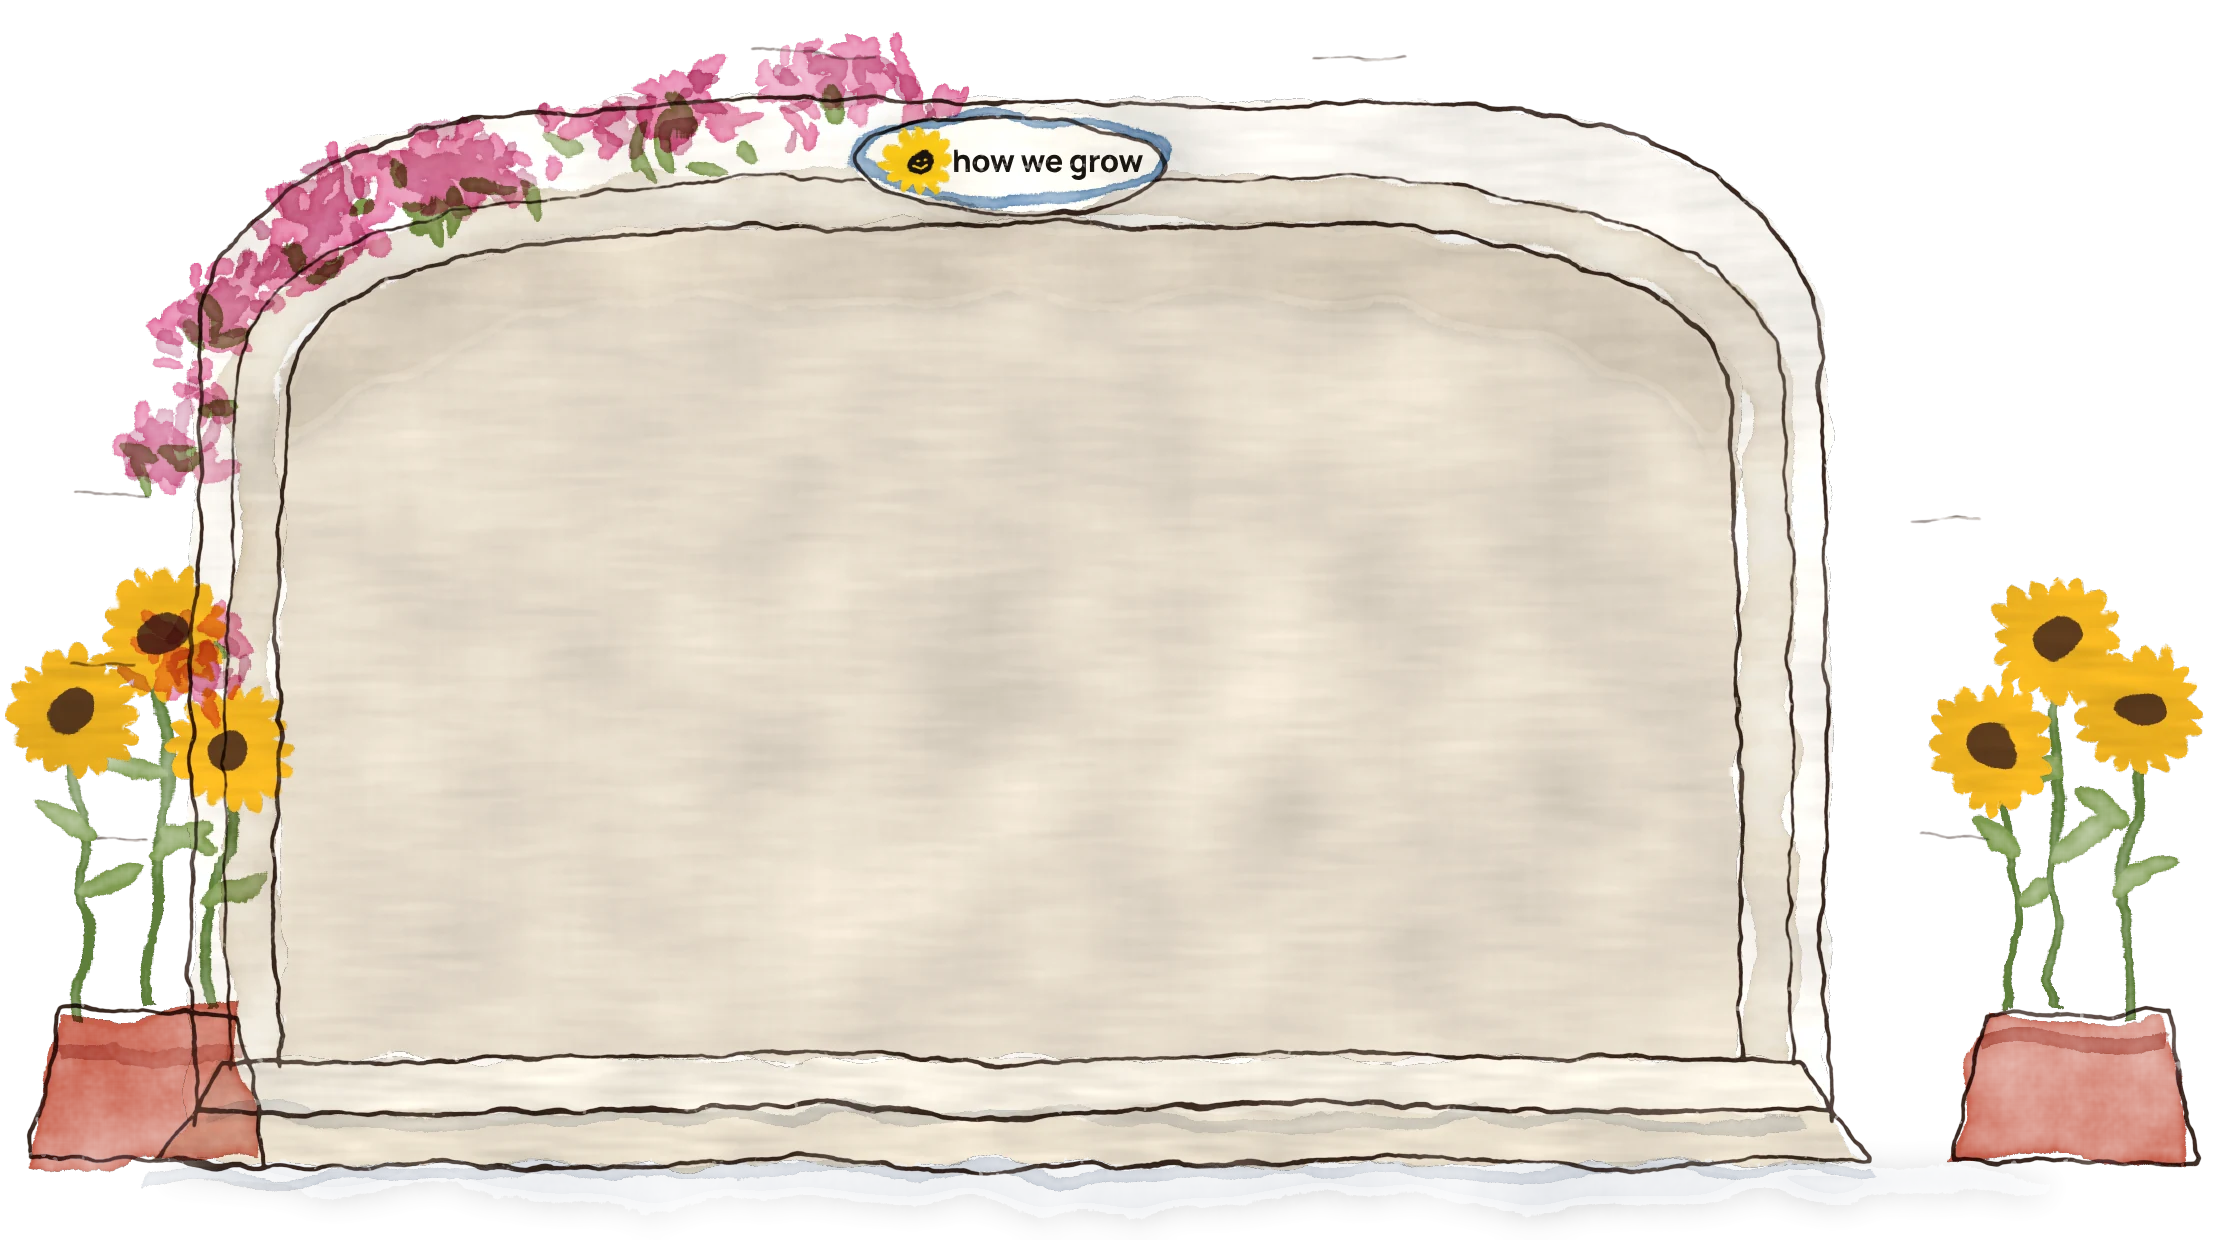
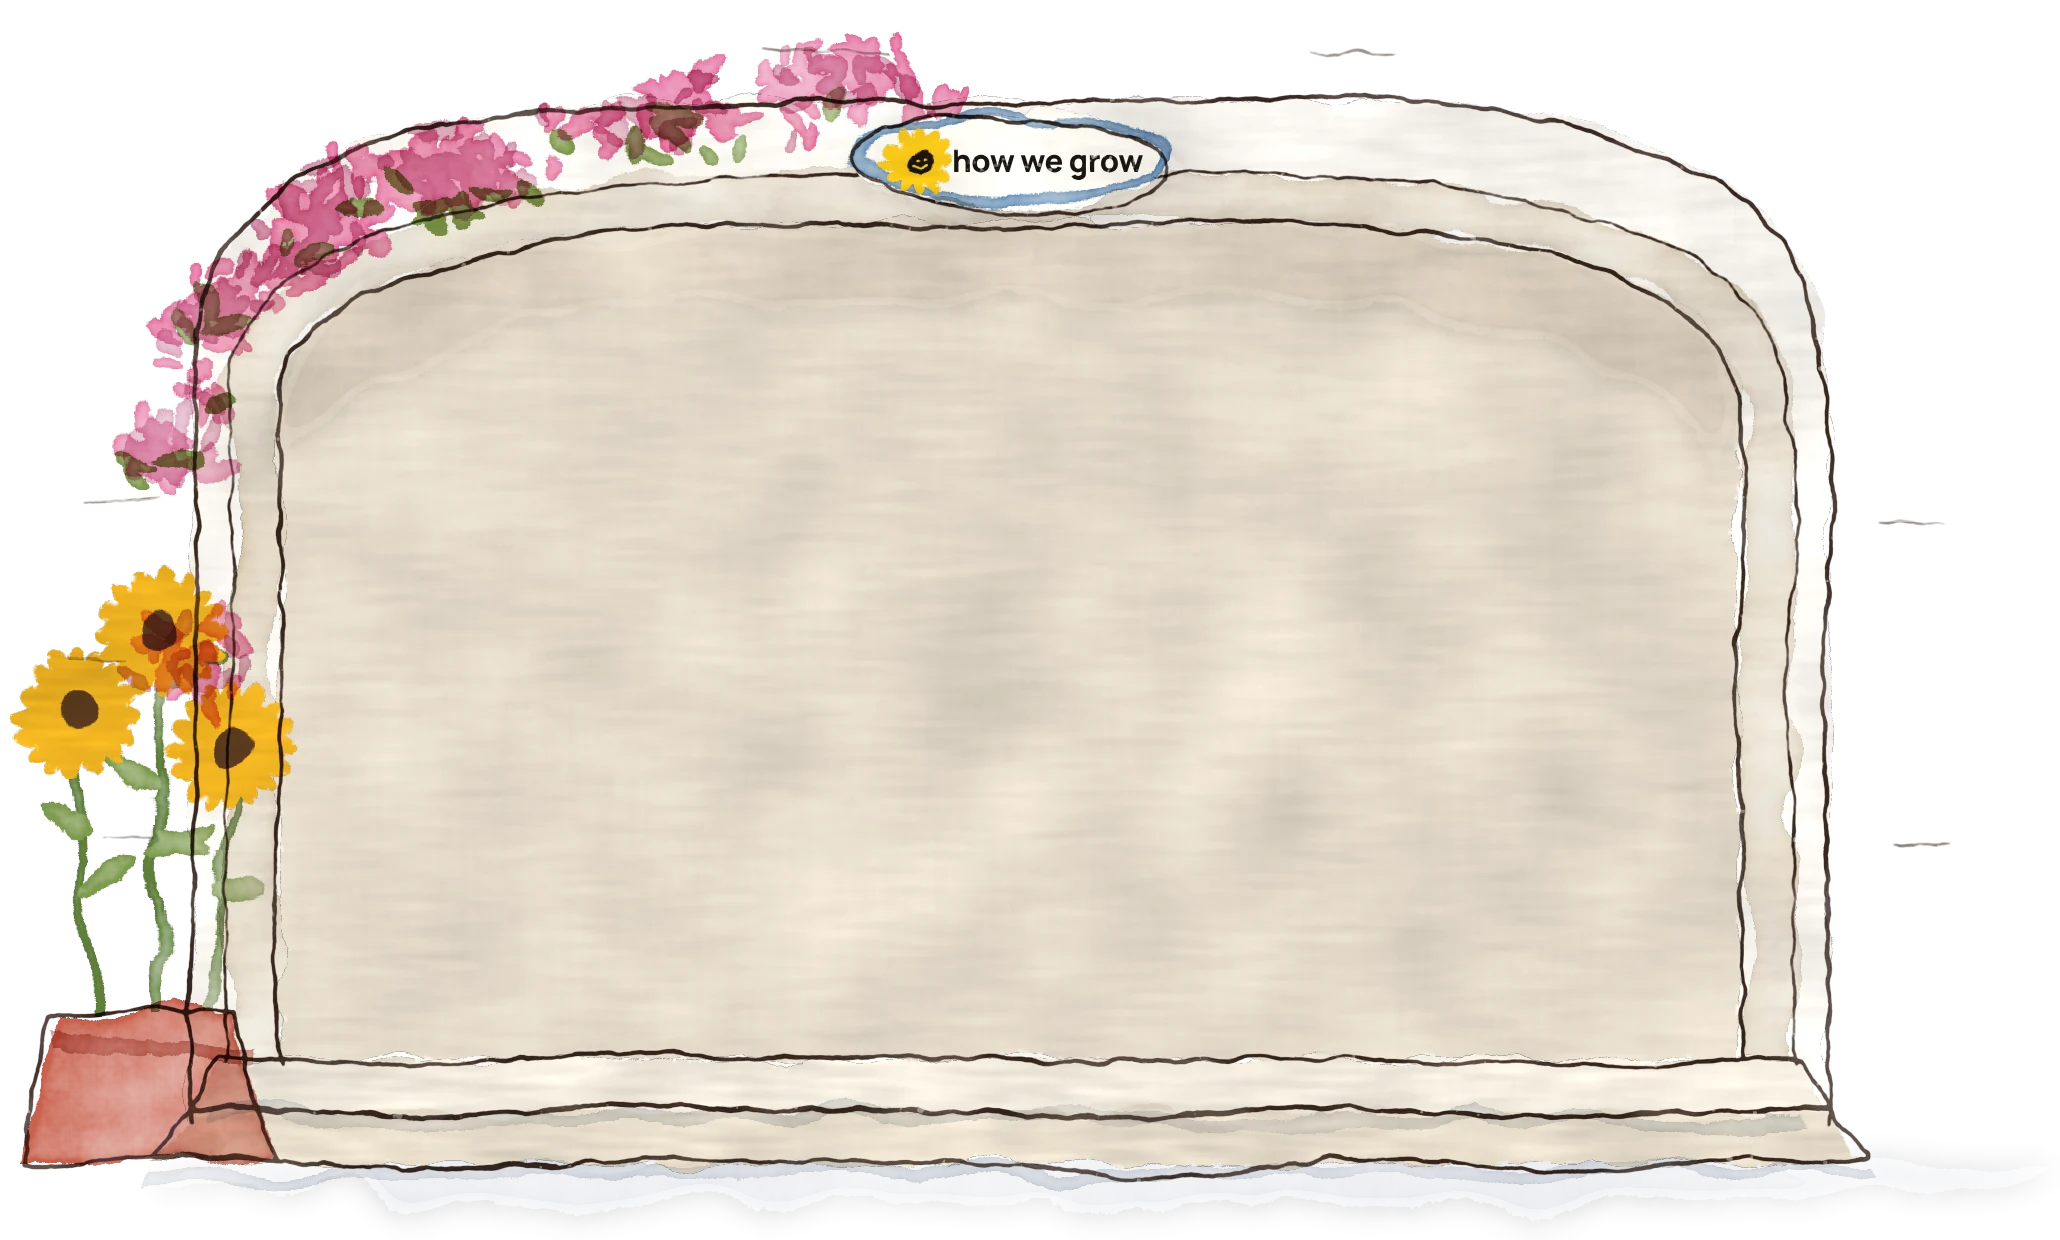
VIP door: the right sunflower pot moves in against the door, in front of the open leaf; canvas trimmed so the whole door and its video scale up
Claude-Session: https://claude.ai/code/session_01MxqKXt8jC4twN2icxWpMeU

Changed region(s): [[0.0, 0.0306, 0.9942, 0.9806], [0.7146, 0.2758, 0.7456, 0.3065], [0.5592, 0.6435, 0.5903, 0.6742]]

diff --git a/tools/paint/studio.html b/tools/paint/studio.html
@@ -439,7 +439,7 @@ svg[data-art]{background:transparent;display:block}
 </svg>
 
 <!-- hero · her door in Greece: the video sits in the arched opening (x170 y110 w670 h420); the blue door leaf swings open toward us -->
-<svg data-art="door" width="1110" height="620" viewBox="0 0 1110 620">
+<svg data-art="door" width="1030" height="620" viewBox="0 0 1030 620">
   <g data-mat="shadow" fill="#8E98AA" data-density=".5"><ellipse cx="555" cy="588" rx="470" ry="14"/></g>
   <g data-mat="gouache" data-angle="0" data-streak=".012"><path d="M96 560 V180 C96 100 190 50 320 50 H690 C820 50 914 100 914 180 V560 Z" fill="#FBF8F2"/></g>
   <g data-mat="wash" fill="#D8CBB6" data-density=".7"><path d="M114 530 V196 C114 126 230 88 378 88 H632 C780 88 896 126 896 196 V530 H870 V200 C870 146 770 112 630 112 H380 C240 112 140 146 140 200 V530 Z"/></g>
@@ -448,8 +448,8 @@ svg[data-art]{background:transparent;display:block}
   <g data-mat="shadow" fill="#8E7E6A" data-density=".5"><path d="M140 200 C140 146 240 112 380 112 H630 C770 112 870 146 870 200 V230 C840 190 760 150 630 150 H380 C250 150 170 190 140 230 Z"/></g>
   <g data-mat="gouache" data-angle="0"><path d="M110 530 H900 L914 556 H96 Z" fill="#F1EADD"/><path d="M96 556 H914 L934 582 H76 Z" fill="#E7DDCB"/></g>
   <g data-mat="wash" fill="#B7C0CC" data-density=".45"><path d="M108 556 H902 L906 562 H104 Z M76 582 H934 L936 588 H74 Z"/></g>
-  <g data-mat="wash" fill="#C9614E" data-rim="2.6"><path d="M12 582 L28 506 H118 L134 582 Z"/><path d="M976 582 L992 506 H1082 L1098 582 Z"/></g>
-  <g data-mat="wash" fill="#A9483A" data-density=".5"><path d="M24 520 H122 L120 528 H26 Z M988 520 H1086 L1084 528 H990 Z"/></g>
+  <g data-mat="wash" fill="#C9614E" data-rim="2.6"><path d="M12 582 L28 506 H118 L134 582 Z"/></g>
+  <g data-mat="wash" fill="#A9483A" data-density=".5"><path d="M24 520 H122 L120 528 H26 Z"/></g>
   <g data-mat="wash" fill="#7E9A4E" data-rim="2.2" id="heroLeaves"></g>
   <g data-mat="gouache" data-angle="0" id="heroFlowers"></g>
   <g data-mat="wash" fill="#E05A92" data-rim="2" data-density=".8" id="heroBoug"></g>
@@ -459,7 +459,7 @@ svg[data-art]{background:transparent;display:block}
     <path d="M140 530 V200 C140 146 240 112 380 112 H630 C770 112 870 146 870 200 V530"/>
     <path d="M114 530 V196 C114 126 230 88 378 88 H632 C780 88 896 126 896 196 V530" stroke-width=".8"/>
     <path d="M110 530 H900 L914 556 H96 Z M96 556 H914 L934 582 H76 Z"/>
-    <path d="M12 582 L28 506 H118 L134 582 Z M976 582 L992 506 H1082 L1098 582 Z"/>
+    <path d="M12 582 L28 506 H118 L134 582 Z"/>
   </g>
   <g data-mat="shadow" fill="#8E98AA" data-density=".6"><ellipse cx="508" cy="84" rx="78" ry="23"/></g>
   <g data-mat="gouache" data-angle="0" data-streak=".01"><ellipse cx="505" cy="80" rx="78" ry="24" fill="#FFFCF3"/></g>
@@ -467,9 +467,9 @@ svg[data-art]{background:transparent;display:block}
   <g data-mat="gouache" data-angle="0" id="plaqueFlower"></g>
   <g data-mat="flat" fill="#1A1412"><text x="476" y="86" class="sans" font-weight="800" font-size="15.5" letter-spacing="-.2">how we grow</text></g>
   <g data-mat="ink" stroke="#1A1412" stroke-width="1" fill="none"><ellipse cx="505" cy="80" rx="78" ry="24"/></g>
-  <g data-mat="ink" stroke="#8A7A6E" stroke-width=".7" fill="none" data-density=".6"><path d="M42 250 h34 M36 330 h28 M50 420 h24 M960 260 h30 M968 420 h26 M380 26 h60 M660 30 h40"/></g>
+  <g data-mat="ink" stroke="#8A7A6E" stroke-width=".7" fill="none" data-density=".6"><path d="M42 250 h34 M36 330 h28 M50 420 h24 M940 260 h30 M948 420 h26 M380 26 h60 M660 30 h40"/></g>
 </svg>
-<svg data-art="door-leaf" width="1110" height="620" viewBox="0 0 1110 620">
+<svg data-art="door-leaf" width="1030" height="620" viewBox="0 0 1030 620">
   <g data-mat="gouache" data-angle="90"><path d="M870 530 L982 500 V150 C982 132 964 124 946 130 L870 160 Z" fill="#EC3486"/></g>
   <g data-mat="wash" fill="#A3155A" data-density=".55"><path d="M870 530 L898 522 V152 L870 160 Z"/><path d="M910 486 L970 470 V440 L910 456 Z M910 330 L970 314 V284 L910 300 Z M910 196 L970 180 V160 L910 176 Z"/></g>
 
@@ -479,7 +479,17 @@ svg[data-art]{background:transparent;display:block}
     <path d="M974 350 c-8 0 -8 14 0 14" stroke-width="1.6"/>
   </g>
 </svg>
-<svg data-art="door-closed" width="1110" height="620" viewBox="0 0 1110 620">
+<svg data-art="door-potr" width="1030" height="620" viewBox="0 0 1030 620">
+  <!-- Nov 4 (Sean: "put the right sunflower closer to the door so we can scale up this whole thing"): the right pot sits
+       against the door, in front of the open leaf's foot -->
+  <g data-mat="shadow" fill="#8E98AA" data-density=".55"><ellipse cx="958" cy="586" rx="74" ry="9"/></g>
+  <g data-mat="wash" fill="#C9614E" data-rim="2.6"><path d="M896 582 L912 506 H1002 L1018 582 Z"/></g>
+  <g data-mat="wash" fill="#A9483A" data-density=".5"><path d="M908 520 H1006 L1004 528 H910 Z"/></g>
+  <g data-mat="wash" fill="#7E9A4E" data-rim="2.2" id="heroLeavesR"></g>
+  <g data-mat="gouache" data-angle="0" id="heroFlowersR"></g>
+  <g data-mat="ink" stroke="#3A2A22" stroke-width="1.2" fill="none"><path d="M896 582 L912 506 H1002 L1018 582 Z"/></g>
+</svg>
+<svg data-art="door-closed" width="1030" height="620" viewBox="0 0 1030 620">
   <g data-mat="gouache" data-angle="90"><path d="M140 530 V200 C140 146 240 112 380 112 H630 C770 112 870 146 870 200 V530 Z" fill="#EC3486"/></g>
   <g data-mat="wash" fill="#A3155A" data-density=".45"><path d="M230 230 H780 V340 H230 Z M230 370 H780 V500 H230 Z"/></g>
   <g data-mat="gouache" fill="#F5C518"><circle cx="186" cy="380" r="10"/></g>
@@ -1507,12 +1517,15 @@ document.fonts.ready.then(() => {
   const hl = document.getElementById('heroLeaves'), hf = document.getElementById('heroFlowers'), hb = document.getElementById('heroBoug');
   if (hl) { let L = '', F = '', B = '';
     // sunflowers in the two pots, bookends (Hotel Le Luv's topiaries)
-    [[72, 506], [1036, 506]].forEach(([x, y], k) => { const stems = k ? [[-30, 132, -10], [-4, 186, -4], [26, 150, 8]] : [[-26, 150, -8], [6, 190, 4], [32, 132, 12]];
+    let LR = '', FR = '';
+    [[72, 506], [956, 506]].forEach(([x, y], k) => { let L0 = L.length, F0 = F.length; const stems = k ? [[-30, 132, -10], [-4, 186, -4], [26, 150, 8]] : [[-26, 150, -8], [6, 190, 4], [32, 132, 12]];
       stems.forEach(([dx, hgt, lean]) => { const tx = x + dx + lean, ty = y - hgt;
         L += `<path d="M${x + dx} ${y} C${x + dx} ${y - hgt * .5} ${tx} ${ty + 40} ${tx} ${ty}" stroke="#5E7F3A" stroke-width="5" fill="none"/>`;
         L += `<ellipse cx="${x + dx + 12}" cy="${y - hgt * .45}" rx="16" ry="6" transform="rotate(-30 ${x + dx + 12} ${y - hgt * .45})"/><ellipse cx="${x + dx - 12}" cy="${y - hgt * .65}" rx="15" ry="5.5" transform="rotate(28 ${x + dx - 12} ${y - hgt * .65})"/>`;
         for (let i = 0; i < 16; i++) F += `<ellipse cx="${tx}" cy="${ty - 21}" rx="5.5" ry="12" fill="#EFB321" transform="rotate(${i * 22.5} ${tx} ${ty})"/>`;
-        F += `<circle cx="${tx}" cy="${ty}" r="11" fill="#5A3A1E"/>` }) });
+        F += `<circle cx="${tx}" cy="${ty}" r="11" fill="#5A3A1E"/>` });
+      if (k) { LR = L.slice(L0); FR = F.slice(F0); L = L.slice(0, L0); F = F.slice(0, F0) } });
+    if (document.getElementById('heroLeavesR')) { document.getElementById('heroLeavesR').innerHTML = LR; document.getElementById('heroFlowersR').innerHTML = FR }
     // bougainvillea over the arch: clusters of papery bracts hugging the wall's top left, hanging down its side
     let B2 = '';
     for (let i = 0; i < 64; i++) { const t = Math.pow(rnd(), 1.4), ang = Math.PI * (1.0 - t * .5), cx = 505 + Math.cos(ang) * (412 + (rnd() - .5) * 40), cy = 196 - Math.sin(ang) * (150 + (rnd() - .5) * 34) + (t < .12 ? rnd() * 160 : 0);

diff --git a/vip/index.html b/vip/index.html
@@ -1102,7 +1102,7 @@ body{background:#F4ECDD var(--paper) 0 0/512px}
 .door-art{display:block;width:100%;height:auto;pointer-events:none}
 /* Nov 4 (Sean: "i want everything to be visible ... i like the curves"): the video sits fully under the arch, 16:9, so
    nothing in it is cut; the arch keeps its rounded top above it */
-.door-v{position:absolute;left:15.766%;top:25.645%;width:59.459%;height:59.839%;overflow:hidden;border-radius:3px}
+.door-v{position:absolute;left:16.990%;top:25.645%;width:64.078%;height:59.839%;overflow:hidden;border-radius:3px}
 .door-v:after{content:"";position:absolute;inset:0;pointer-events:none;box-shadow:inset 0 10px 18px -8px rgba(60,35,15,.45),inset 8px 0 14px -10px rgba(60,35,15,.35)}
 .door .scr{height:100%;aspect-ratio:auto;border-radius:0}
 .door .scr img.mk{display:none}
@@ -1247,7 +1247,7 @@ body{background:var(--page)}
 /* ---- hero: the door opens on her ---- */
 .door-leaf,.door-closed{position:absolute;inset:0;width:100%;height:auto;pointer-events:none}
 .door-leaf{opacity:0;animation:leafin .5s ease-out 1.75s forwards}
-.door-closed{transform-origin:78.38% 50%;animation:dswing 1.6s var(--swing) .55s forwards;z-index:2}
+.door-closed{transform-origin:84.466% 50%;animation:dswing 1.6s var(--swing) .55s forwards;z-index:2}
 @keyframes dswing{0%{transform:perspective(1600px) rotateY(0)}12%{transform:perspective(1600px) rotateY(4deg)}80%{opacity:1}100%{transform:perspective(1600px) rotateY(-84deg);opacity:0}}
 @keyframes leafin{from{opacity:0;transform:translateX(-1.2%) scaleX(.94)}to{opacity:1;transform:none}}
 .door .door-v .scr img{animation:warm 1.6s var(--glide) .9s both}
@@ -1939,6 +1939,7 @@ body.is-closed .bdg-life{display:none}
   .vh-grid{grid-template-columns:minmax(0,1fr) 400px;gap:28px}
   .vh-l .door{width:calc(100% + 30px);margin-left:-26px}
 }
+.door-potr{position:absolute;inset:0;width:100%;height:auto;pointer-events:none;z-index:3}
 </style>
 </head>
 <body>
@@ -2084,7 +2085,7 @@ body.is-closed .bdg-life{display:none}
     <div class="vh-grid">
       <div class="vh-l">
         <div class="door" id="vsl">
-          <img class="door-art" src="../img/vip/paint/door.webp" alt="" width="1110" height="620" fetchpriority="high">
+          <img class="door-art" src="../img/vip/paint/door.webp?v=3" alt="" width="1030" height="620" fetchpriority="high">
           <div class="door-v"><button class="scr" type="button" aria-label="Play Ana's VIP video">
               
               <img src="img/cover.webp" alt="Ana Calin" width="1280" height="720" fetchpriority="high">
@@ -2092,9 +2093,10 @@ body.is-closed .bdg-life{display:none}
               <img class="mk" src="../img/mark.png" alt="" width="56" height="56">
               <span class="vplay"><i><svg width="18" height="18" viewBox="0 0 26 26" aria-hidden="true"><path d="M8.6 5.6v14.8c0 .9 1 1.4 1.7 1l11.6-7.4c.7-.4.7-1.4 0-1.9L10.3 4.6c-.7-.5-1.7 0-1.7 1z" fill="#F72585"/></svg></i>tap for sound</span>
             </button></div>
-          <svg class="petals" viewBox="0 0 1110 620" aria-hidden="true"></svg>
-          <img class="door-leaf" src="../img/vip/paint/door-leaf.webp" alt="" width="1110" height="620" aria-hidden="true">
-          <img class="door-closed" src="../img/vip/paint/door-closed.webp" alt="" width="1110" height="620" aria-hidden="true">
+          <svg class="petals" viewBox="0 0 1030 620" aria-hidden="true"></svg>
+          <img class="door-leaf" src="../img/vip/paint/door-leaf.webp?v=3" alt="" width="1030" height="620" aria-hidden="true">
+          <img class="door-closed" src="../img/vip/paint/door-closed.webp?v=3" alt="" width="1030" height="620" aria-hidden="true">
+          <img class="door-potr" src="../img/vip/paint/door-potr.webp" alt="" width="1030" height="620" aria-hidden="true">
         </div>
         <p class="under"><b>A minute with me before you decide.</b> Here’s what VIP adds to your free seat.</p>
 
